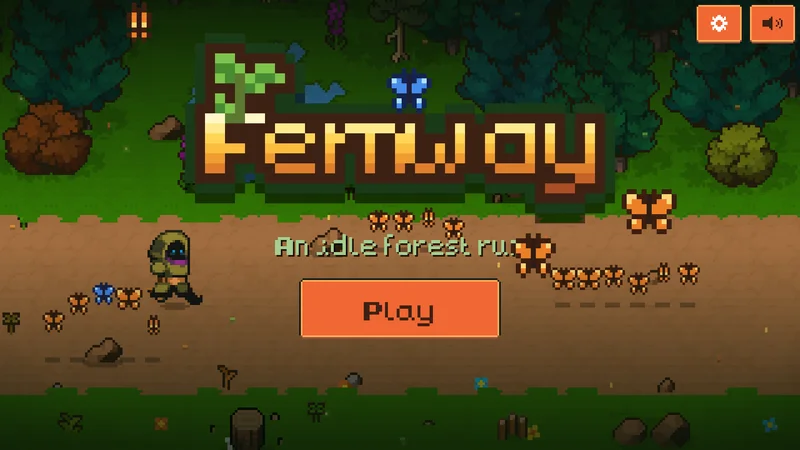
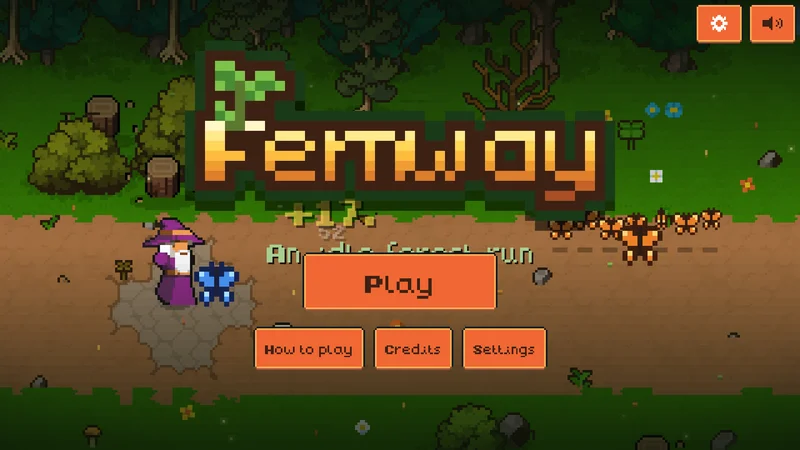
Credits section (asset packs, Godot, Nunito) with links; nav/footer links; new title screenshot

diff --git a/index.html b/index.html
@@ -29,6 +29,7 @@
     <a href="#how">How it plays</a>
     <a href="#screens">Screens</a>
     <a href="#features">Features</a>
+    <a href="#credits">Credits</a>
   </nav>
   <a class="btn btn-small" href="#beta">Join the beta</a>
 </header>
@@ -152,17 +153,53 @@
         <a href="mailto:classic.forest.games@gmail.com">classic.forest.games@gmail.com</a>.</p>
     </div>
   </section>
+  <section id="credits" class="section credits">
+    <h2 class="reveal center">Credits</h2>
+    <p class="sub center reveal">Fernway stands on the shoulders of generous pixel artists and an open-source engine. Go and see their work.</p>
+    <div class="credit-grid">
+      <article class="credit reveal">
+        <p class="eyebrow">Art</p>
+        <h3><a href="https://anokolisa.itch.io/free-pixel-art-asset-pack-topdown-tileset-rpg-16x16-sprites" rel="noopener">Pixel Crawler – Free Pack</a></h3>
+        <p class="by">by <a href="https://anokolisa.itch.io/" rel="noopener">Anokolisa</a></p>
+        <p>Heroes, orcs, skeletons, trees, ground tiles, houses, props and weapons.</p>
+        <p class="lic">Used under the Anokolisa asset terms.</p>
+      </article>
+      <article class="credit reveal">
+        <p class="eyebrow">Art, music &amp; sound</p>
+        <h3><a href="https://pixel-boy.itch.io/ninja-adventure-asset-pack" rel="noopener">Ninja Adventure – Asset Pack</a></h3>
+        <p class="by">by <a href="https://pixel-boy.itch.io/" rel="noopener">pixel-boy</a> &amp; AAA</p>
+        <p>Music, sound effects, the pixel font, UI skin, slimes, bats, coins, chests and effects.</p>
+        <p class="lic">Released under <a href="https://creativecommons.org/publicdomain/zero/1.0/" rel="noopener">CC0 1.0</a>.</p>
+      </article>
+      <article class="credit reveal">
+        <p class="eyebrow">Engine</p>
+        <h3><a href="https://godotengine.org" rel="noopener">Godot Engine</a></h3>
+        <p class="by">by Juan Linietsky, Ariel Manzur and the <a href="https://godotengine.org/license/" rel="noopener">Godot contributors</a></p>
+        <p>The free and open-source engine Fernway is built with. Its license notices are in the game under Credits.</p>
+        <p class="lic">MIT License.</p>
+      </article>
+      <article class="credit reveal">
+        <p class="eyebrow">This website</p>
+        <h3><a href="https://fonts.google.com/specimen/Nunito" rel="noopener">Nunito</a></h3>
+        <p class="by">by <a href="https://github.com/googlefonts/nunito" rel="noopener">The Nunito Project Authors</a></p>
+        <p>The typeface you are reading. The forest background is drawn in code.</p>
+        <p class="lic"><a href="fonts/OFL.txt">SIL Open Font License 1.1</a>.</p>
+      </article>
+    </div>
+  </section>
 </main>
 
 <footer class="foot">
   <div class="foot-brand"><img src="img/icon-192.png" alt="" width="28" height="28"> Fernway</div>
   <nav aria-label="Footer">
     <a href="privacy/">Privacy policy</a>
+    <a href="#credits">Credits</a>
     <a href="https://github.com/AlessioM/fernway-site/issues" rel="noopener">Report an issue</a>
     <a href="mailto:classic.forest.games@gmail.com">Contact</a>
   </nav>
-  <p>© 2026 Classic Forest Games · Pixel art in the game by <a href="https://anokolisa.itch.io/" rel="noopener">Anokolisa</a>
+  <p>© 2026 Classic Forest Games · Pixel art by <a href="https://anokolisa.itch.io/" rel="noopener">Anokolisa</a>
     and <a href="https://pixel-boy.itch.io/ninja-adventure-asset-pack" rel="noopener">pixel-boy &amp; AAA</a> ·
+    Made with <a href="https://godotengine.org" rel="noopener">Godot</a> ·
     Nunito font under the <a href="fonts/OFL.txt">SIL Open Font License</a></p>
 </footer>
 

diff --git a/styles.css b/styles.css
@@ -267,6 +267,20 @@ p { margin: 0; }
 .report-btns { display: flex; flex-wrap: wrap; gap: 10px; }
 .fine { color: var(--muted); font-size: 15px; margin-top: 26px; }
 
+/* ---------- credits ---------- */
+.credit-grid { display: grid; grid-template-columns: repeat(2, minmax(0, 1fr)); gap: 20px; }
+.credit {
+  padding: 26px; border-radius: var(--radius);
+  background: rgba(22, 40, 26, .82); border: 1px solid var(--line);
+}
+.credit .eyebrow { margin-bottom: 10px; font-size: 12px; }
+.credit h3 a { color: var(--text); text-decoration-color: rgba(244, 240, 220, .35); text-underline-offset: 4px; }
+.credit h3 a:hover { color: var(--gold); }
+.credit .by { color: var(--muted); margin: 6px 0 12px; font-size: 15px; }
+.credit .by a, .credit .lic a { color: var(--leaf); }
+.credit p { color: var(--muted); font-size: 16px; }
+.credit .lic { margin-top: 10px; font-size: 14px; opacity: .85; }
+
 /* ---------- footer ---------- */
 .foot { width: min(var(--max), calc(100% - 32px)); margin: 0 auto; padding: 40px 0 50px; border-top: 1px solid var(--line); display: flex; flex-wrap: wrap; gap: 14px 30px; align-items: center; color: var(--muted); font-size: 14px; }
 .foot-brand { display: flex; align-items: center; gap: 10px; color: var(--text); font-weight: 800; font-size: 16px; }
@@ -316,7 +330,7 @@ dialog#lightbox figcaption { text-align: center; color: var(--muted); margin-top
   .nav .btn-small { margin-left: auto; }
   .hero { align-items: flex-start; padding: 96px 0 90px; }
   .section { padding: 80px 0; }
-  .cards, .join { grid-template-columns: 1fr; }
+  .cards, .join, .credit-grid { grid-template-columns: 1fr; }
   .gallery { grid-auto-columns: 82%; }
   .logo { margin-left: 0; }
   .cta-row .btn { flex: 1 1 auto; }

diff --git a/main.js b/main.js
@@ -197,7 +197,7 @@ const reduceMotion = window.matchMedia("(prefers-reduced-motion: reduce)").match
  * ------------------------------------------------------------------ */
 const SHOTS = [
   ["02_forest", "Forest road", "Rivers and bridges, chests, orcs with clubs and butterflies on three lanes."],
-  ["01_title", "Title screen", "The forest keeps running behind the menu."],
+  ["01_title", "Title screen", "Play, How to play, Credits and Settings over a demo run that keeps going."],
   ["03_frenzy", "Frenzy", "Fill the meter and the whole road pays out in gold."],
   ["04_net", "The net", "Hold to sweep butterflies into the bag — the multiplier climbs while you hold."],
   ["05_snow", "Snowfields", "Every so often the forest freezes: pines, crystals and falling snow."],
